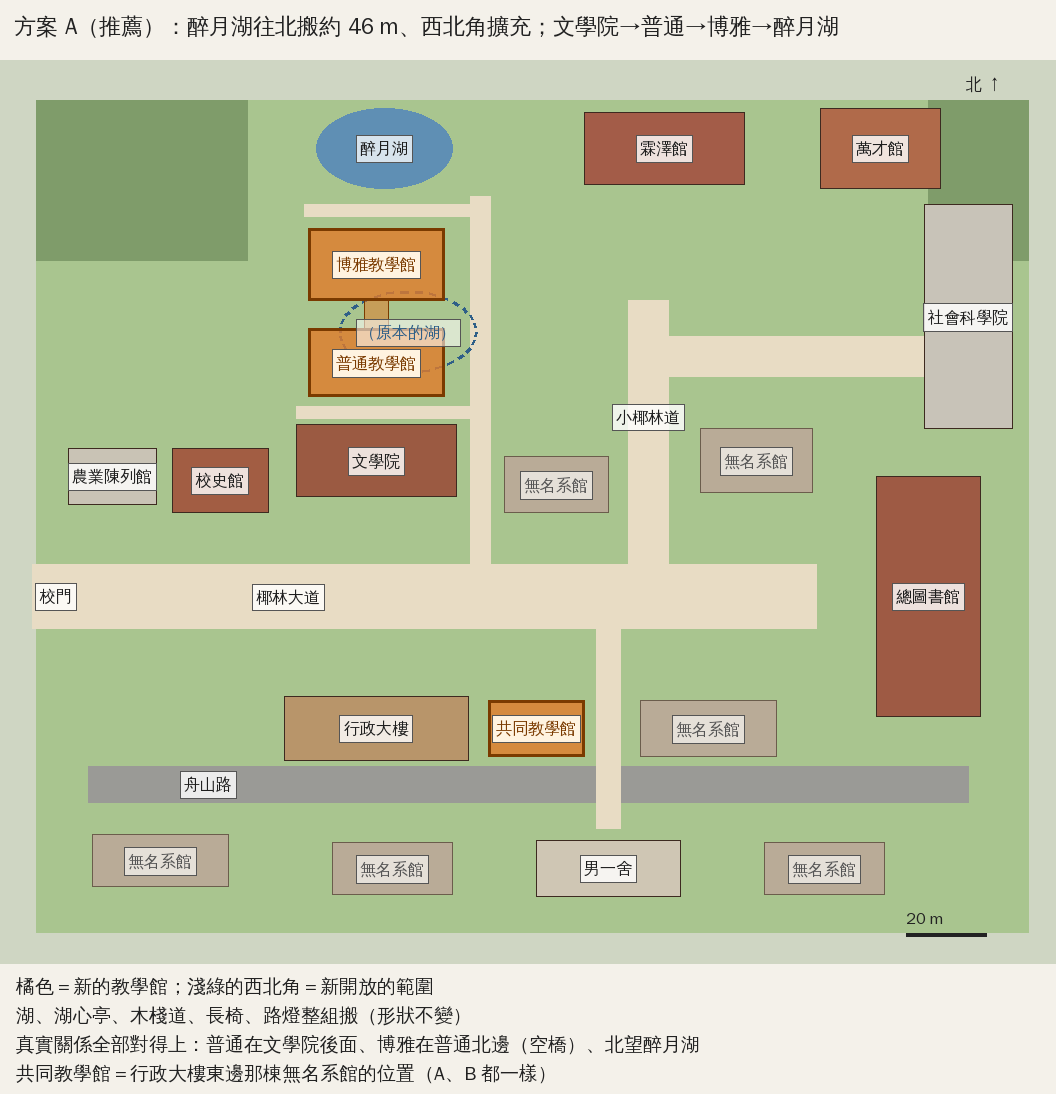
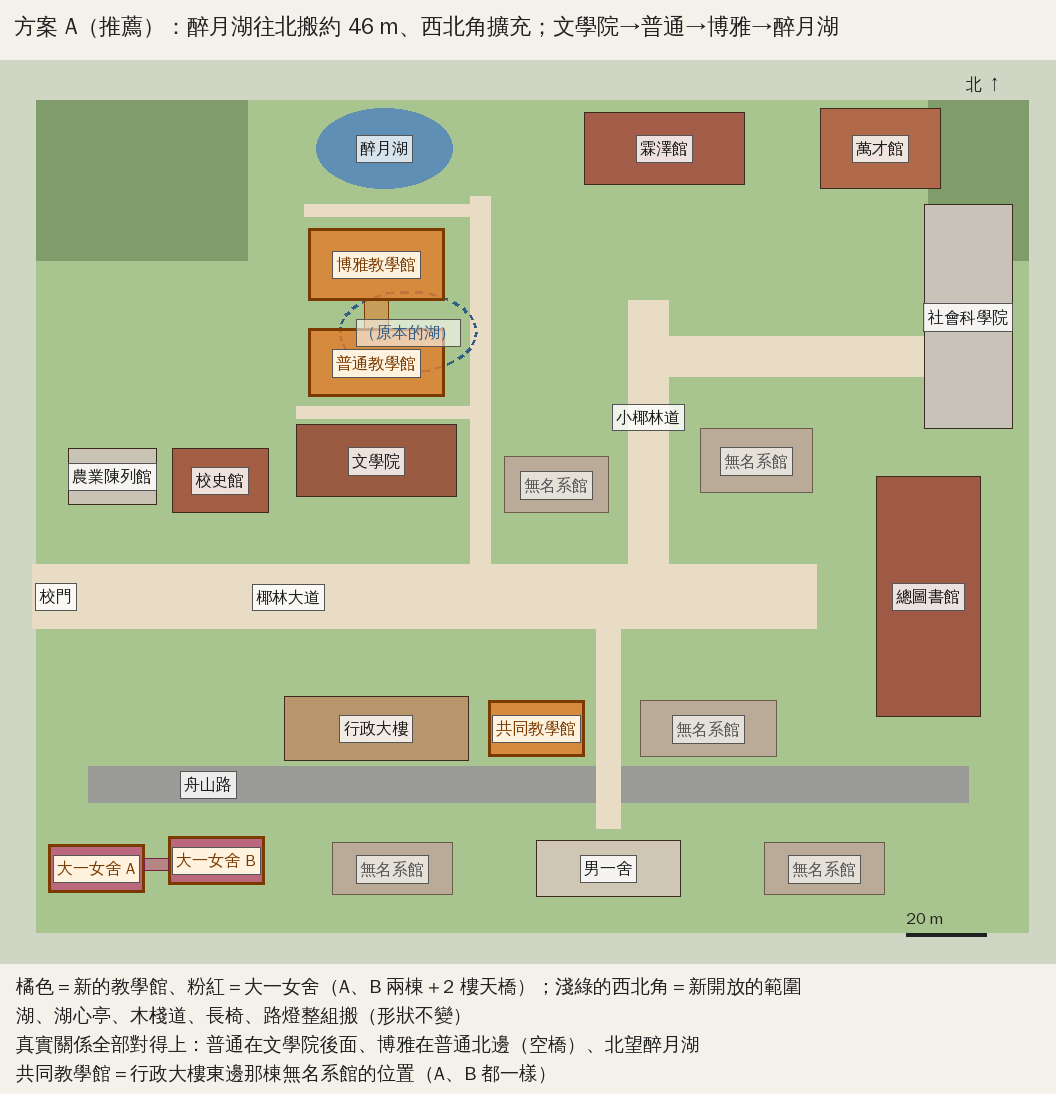
大一女舍第一階段（BLOCKOUT）＋公共建築通用系統設計（使用者 2026-10-13 第二則）
- 大一女舍：學務處官方簡介查證（校園內、鄰近公館捷運站 2、3 號出口，A、B 兩棟各 5 層；2 樓天橋）；
  校園西南角、舟山路西段南側，取代第二十批的無名系館 (-92,66)：A 棟 (-108,68)、B 棟 (-78,66)、2 樓天橋（下面可以走）；
  A 棟傳達室、B 棟刷卡門，「男賓止步」；門口等人用的長椅、腳踏車架；大地圖地名、快速前往（門口）、導航規則
- tests/campus_public_unit.js（新）：共同教學館、大一女舍 A／B 的入口站得住、從校門與霖澤館前走得到（走路與跑步＋低幀率）、
  建築走不進去、天橋下走得過、長椅坐得到、快速前往落點——ALL PASS；quick_travel_unit、classes_unit、nav_buildings_unit、guide_unit、kit_nav_check 都 ALL PASS
- tests/flow_teaching_buildings.py 加 F 段（大一女舍的真實玩家流程），還沒跑（等 v9.5 回歸跑完）
- docs/campus/PUBLIC_BUILDINGS_DESIGN.md：盤點既有系統＋教學館模板、人流（隨時間、同一時段進出看到同一批人、有名字的人不重複）、
  通用互動 10 項、事件介面（只加 room／activity／npcHere 條件）、存檔相容、效能、分階段
- TEACHING_BUILDINGS_PLAN.md 3b 節＋示意圖加大一女舍

Claude-Session: https://claude.ai/code/session_01Eds6msqpsuzNEw98sdw8JX

diff --git a/tests/campus_public_unit.js b/tests/campus_public_unit.js
@@ -1,0 +1,38 @@
+// 台大總校區的公共場景（使用者 2026-10-13：普通、共同、博雅教學館、大一女舍；docs/campus/TEACHING_BUILDINGS_PLAN.md）——不需要瀏覽器。
+// 在 Node 裡建出遊戲真正的校園，檢查：
+//   每棟的入口互動點站得住、從校門與霖澤館前都走得到（引擎真正的找路＋移動碰撞，走路與跑步＋低幀率）；
+//   建築本體走不進去（不會穿牆）；大一女舍 A、B 兩棟之間（2 樓天橋下）走得過去；門口長椅坐得到；
+//   入口有名牌（mark）、大地圖有地名、快速前往的落點在門口前。
+// 這是模擬，不是真實玩家流程；真實流程在 tests/flow_teaching_buildings.py。
+// 用法：node tests/campus_public_unit.js
+const fs=require('fs'), vm=require('vm'), path=require('path');
+const ROOT=path.resolve(__dirname,'..');
+global.window=global; global.self=global;
+const ctx2d=new Proxy({}, {get:(o,k)=>k==='createRadialGradient'||k==='createLinearGradient'||k==='createPattern'?()=>({addColorStop(){}}):(k==='getImageData'?()=>({data:new Uint8ClampedArray(16)}):(k==='measureText'?()=>({width:10}):(()=>{})))});
+global.document={ createElementNS:()=>({getContext:()=>ctx2d,style:{}}), createElement:()=>({width:1,height:1,getContext:()=>ctx2d,style:{}}), getElementById:()=>null, addEventListener(){} };
+global.navigator={userAgent:'node'}; global.addEventListener=()=>{}; global.innerWidth=844; global.innerHeight=390; global.location={search:''};
+const files=['lib/three.bundle.js','lib/three.jsm.bundle.js','src/people3d.js','src/assets3d.js','src/world3d.js','src/engine3d.js','src/townkit3d.js','src/campuskit3d.js','src/zones3d.js',
+  'src/data/linze_layout.js','src/data/classroom_layout.js','src/building3d.js','src/data/wancai_layout.js','src/wancai3d.js','src/data/library_layout.js','src/library3d.js','src/data/lawlib_layout.js','src/lawlib3d.js',
+  'src/data/calendar.js','src/data/places.js','src/data/characters.js','src/data/courses.js','src/classes3d.js'];
+for(const f of files){ let src=fs.readFileSync(path.join(ROOT,f),'utf8'); src=src.replace(/^const (\w+)\s*=/mg,(m,n)=>/^(THREE|THREE_JSM|P3|ASSETS|W3|E3|TK|CK|Z3|B3|WC3|LB3|LL3|LINZE_LAYOUT|CLASSROOM_LAYOUT|WANCAI_LAYOUT|LIBRARY_LAYOUT|LAWLIB_LAYOUT|CALENDAR|PLACES|CHARACTERS|UNFAMILIAR_POOL|SOCIAL_GRAPH|PORTRAITS|COURSES|CLS|PROPS|CHAR)$/.test(n)?'globalThis.'+n+'=':m); vm.runInThisContext(src,{filename:f}); }
+let fails=0; const check=(name,ok,info)=>{ console.log((ok?'PASS ':'FAIL ')+name+(info?'　'+info:'')); if(!ok) fails++; };
+const E=E3; E.scene=new THREE.Scene(); E.q={level:'medium'}; E.interactables=[]; E.colliders=[]; E.lampGlows=[]; E.seats=[]; E.npcs=[]; E.spawnHint=null;
+const z=Z3.ZONES.campus.build(E); E.zone=z; E.levels=z.levels||null; E.nav=z.nav; if(E.levels) for(const n of E.levels) n._cm=null; E.player={obj:{position:new THREE.Vector3(),rotation:{y:0}},radius:0.32,lv:0};
+CLS.addDoors({E},'campus');
+const stand=(x,zz)=>E.canStand(x,zz,0.32,0);
+const walk=(a,b)=>{ for(const [dt,sp] of [[1/30,1.6],[0.1,4.1]]){ const r=E.simWalk(a[0],a[1],b[0],b[1],{lv0:0,lv1:0,dt,speed:sp}); if(!r.ok) return Object.assign({dt:+dt.toFixed(3),speed:sp},r); } return {ok:true}; };
+const GATE=[-112,0], LINZE=[34,-98];
+const near=(it)=>{ for(let rr=0;rr<=(it.radius||1.5)-0.05;rr+=0.1) for(let a=0;a<24;a++){ const x=it.x+Math.cos(a/24*Math.PI*2)*rr, zz=it.z+Math.sin(a/24*Math.PI*2)*rr; if(stand(x,zz)) return [x,zz]; } return null; };
+const LM=PLACES.landmarks.campus, QL=PLACES.quickList();
+for(const [label,lm,foots] of [['共同教學館','共同教學館',[[2,33,24,14]]],['大一女舍 A 棟（傳達室）','大一女舍',[[-108,68,24,12]]],['大一女舍 B 棟','大一女舍',[[-78,66,24,12]]]]){
+  const it=E.interactables.find(i=>i.label===label); check(label+'：有入口互動點、有名牌（mark）',!!it&&!!it.mark,it?`(${it.x},${it.z})`:'');
+  if(!it) continue; const p=near(it); check(label+'：入口旁邊站得住',!!p,JSON.stringify(p)); if(!p) continue;
+  let r=walk(GATE,p); check(label+'：從校門走得到（走路 30 fps、跑步＋低幀率）',r.ok,JSON.stringify(r).slice(0,180));
+  r=walk(LINZE,p); check(label+'：從霖澤館前走得到',r.ok,JSON.stringify(r).slice(0,180));
+  for(const [cx,cz,w,d] of foots){ const inside=[[cx,cz],[cx-w/2+1.5,cz],[cx+w/2-1.5,cz],[cx,cz-d/2+3.6],[cx,cz+d/2-1.2]].filter(q=>stand(q[0],q[1]));   /* 正面一樓的拱廊（套件 arcade，約 2.4–3 m 深）走得進去，是設計；量拱廊後面 */ check(label+'：建築本體走不進去（不會穿牆）',!inside.length,JSON.stringify(inside)); }
+  check(label+'：大地圖有地名「'+lm+'」',LM.some(q=>q[0]===lm)); }
+check('大一女舍：A、B 兩棟之間（2 樓天橋下）走得過去',stand(-93,67)&&walk([-93,57],[-93,78]).ok,JSON.stringify(walk([-93,57],[-93,78])).slice(0,160));
+{ const s=(z.seats||E.seats||[]).find(q=>/大一女舍門口的長椅/.test(q.label||'')); check('大一女舍門口有等人用的長椅（坐得到：長椅前站得住、從校門走得到）',!!s&&stand(s.x,s.z+0.75)&&walk(GATE,[s.x,s.z+0.75]).ok,JSON.stringify(s)); }
+{ const bad=QL.filter(q=>q[0]==='campus'&&/共同教學館|大一女舍/.test(q[1])).filter(q=>!stand(q[2].x,q[2].z)); check('快速前往的落點（共同教學館、大一女舍）在門口前、站得住',QL.some(q=>/大一女舍/.test(q[1]))&&!bad.length,JSON.stringify(bad)); }
+{ const it=E.interactables.find(i=>i.door==='common'); check('課表的共同教學館上課點＝共同教學館的正門（不是另一棟無名系館）',!!it&&Math.abs(it.x-2)<1&&Math.abs(it.z-22.8)<1,it?`(${it.x},${it.z})`:''); }
+console.log(fails?('FAILED '+fails):'ALL PASS'); process.exit(fails?1:0);

diff --git a/src/zones3d.js b/src/zones3d.js
@@ -143,6 +143,26 @@ const Z3 = (function(){
        正好是第十八批補的「大道南側、行政大樓東邊」那棟無名系館的位置，換成有名字的建築，位置與大小不變（舊存檔、導航不受影響）。
        外觀是校園套件的方盒（BLOCKOUT），等 LAWWW2 的 Blender 正式模型；正門在北面中間，門口的互動點在 classes3d.js 的 DOORS.common */
     const gongtong=CK.hall({w:24,d:14,floors:3,gfh:4.2,fh:3.6,wall:'#9b5a42',trim:'#d8cfbd',roof:'#43342e',roofH:3.6,arcade:true,porch:{bays:1,depth:2.4,pediment:true,pedH:1.4},sign:'共同教學館'}); ckPlace(gongtong,2,33,Math.PI); buildings.push(gongtong);
+    /* 大一女舍（使用者 2026-10-13：四棟跨學年公共場景之一；查證見 docs/campus/TEACHING_BUILDINGS_PLAN.md 3b）：學務處官方簡介——在校園內、鄰近公館捷運站 2、3 號出口，
+       A、B 兩棟、各 5 層；學生整理的住宿資料：兩棟 2 樓有天橋、傳達室在 A 棟、B 棟靠舟山路、B 棟大門刷學生證。不是女一舍、不是水源 BOT。
+       校園西南角、舟山路西段南側（靠校門與公館那一側），取代第二十批的無名系館 (-92,66)。外觀是校園套件（BLOCKOUT），等 LAWWW2 的模型；
+       主角是男生：大門「男賓止步」，可以在門口的長椅等人，不能進去（第一階段沒有室內）*/
+    { const FD={w:24,d:12,floors:5,gfh:3.6,fh:3.1,wall:'#d9cfc2',trim:'#efe9dd',roofType:'flat',win:'rect',arcade:false,porch:{bays:1,depth:2.0,style:'flat',h:3.4}};
+      const fdA=CK.hall(Object.assign({},FD,{sign:'大一女舍 A'})); ckPlace(fdA,-108,68,Math.PI); buildings.push(fdA);
+      const fdB=CK.hall(Object.assign({},FD,{sign:'大一女舍 B'})); ckPlace(fdB,-78,66,Math.PI); buildings.push(fdB);
+      // 2 樓天橋：A 棟東牆 (x=-96) 到 B 棟西牆 (x=-90)；下面可以走（不擋導航），鏡頭碰撞照建築
+      const br=new THREE.Group(); const bw=6.2, by0=3.7, bh=2.7;
+      const deck=new THREE.Mesh(new THREE.BoxGeometry(bw,0.3,3.2),M('#cfc6b8')); deck.position.set(0,by0,0); br.add(deck);
+      const roofB=new THREE.Mesh(new THREE.BoxGeometry(bw,0.25,3.4),M('#bdb3a4')); roofB.position.set(0,by0+bh,0); br.add(roofB);
+      for(const sz of [-1.5,1.5]){ const wall=new THREE.Mesh(new THREE.BoxGeometry(bw,0.9,0.12),M('#d9cfc2')); wall.position.set(0,by0+0.6,sz); br.add(wall);
+        const gl=new THREE.Mesh(new THREE.BoxGeometry(bw,bh-1.2,0.05),new THREE.MeshStandardMaterial({color:'#9fb4c2',roughness:0.15,metalness:0.2,transparent:true,opacity:0.55})); gl.position.set(0,by0+0.95+(bh-1.2)/2,sz); br.add(gl); }
+      br.position.set(-93,0,67); g.add(br);
+      const bc=new THREE.Mesh(new THREE.BoxGeometry(bw,bh+0.3,3.4),new THREE.MeshBasicMaterial({visible:false,side:THREE.DoubleSide})); bc.position.set(-93,by0+bh/2,67); g.add(bc); E.colliders.push(bc);
+      // 門口：等人用的長椅（面向兩棟的大門）、B 棟門口的腳踏車架
+      { const b=BENCH(); place(g,b,-93,54.2,0); nav.blockRect(-93,54.2,1.4,0.7,0); seats.push({x:-93,z:54.26,yaw:0,label:'坐在大一女舍門口的長椅（等人）'}); }
+      { const r=W3.bikeRack(7); place(g,r,-66,55.4,0); nav.blockRect(-66,55.4,5,1.4,0); }
+      E.interactables.push({x:-108,z:59.2,radius:1.6,lv:0,label:'大一女舍 A 棟（傳達室）',mark:true,look:'大一女舍 A 棟。傳達室在這一棟。女生宿舍，男賓止步——要找人，可以在門口的長椅等。'});
+      E.interactables.push({x:-78,z:57.2,radius:1.6,lv:0,label:'大一女舍 B 棟',mark:true,look:'大一女舍 B 棟。大門要刷住宿生的學生證。女生宿舍，男賓止步。'}); }
     const admGLB=typeof ASSETS!=='undefined'&&!!ASSETS.manifest['bldg.campus_admin']; admin.userData.ckTag='admin'; if(admGLB) admin.userData.dyn=true;   /* 行政大樓的 Blender 正式模型（第二個 AI：campus_hall.py --set admin → bldg.campus_admin）：和總圖同一套接法；導航、鏡頭碰撞、門口照舊是套件的（ckPlace） */
     // ---- 文學院（大道北側，正對行政大樓）：仿羅馬式拱窗 ----
     const arts=CK.hall({w:40,d:18,floors:2,gfh:4.8,fh:4.4,wall:'#9b5a42',trim:'#d8cfbd',roof:'#43342e',roofH:4.8,arcade:true,porch:{bays:3,depth:3.0,pediment:true,pedH:1.8},sign:'文學院'}); ckPlace(arts,-38,-34,0); buildings.push(arts); strip(g,-38,-8,-38,-24,4,W3.pathTex(),4);
@@ -203,7 +223,7 @@ const Z3 = (function(){
         [CK.hall({w:34,d:14,floors:4,gfh:4.2,fh:3.5,wall:'#d2c3a5',trim:'#ebe4d6',roofType:'flat',win:'rect',arcade:true,porch:{bays:3,depth:2.6,style:'flat'}}),45,33,Math.PI],   // 大道南側、往宿舍的路東邊
         [CK.hall({w:30,d:13,floors:5,gfh:3.6,fh:3.1,wall:'#bfb5a3',trim:'#e4ddd0',roofType:'flat',win:'rect',arcade:false,porch:{bays:1,depth:2.0,style:'flat',h:3.4}}),-34,68,Math.PI],   // 舟山路南側、宿舍區
         [CK.hall({w:30,d:13,floors:5,gfh:3.6,fh:3.1,wall:'#c9b49a',trim:'#e8e2d6',roofType:'flat',win:'rect',arcade:false,porch:{bays:1,depth:2.0,style:'flat',h:3.4}}),74,68,Math.PI],
-        [CK.hall({w:34,d:13,floors:4,gfh:3.8,fh:3.3,wall:'#c4b29a',trim:'#e6dfd0',roofType:'flat',win:'rect',arcade:false,porch:{bays:1,depth:2.0,style:'flat',h:3.4}}),-92,66,Math.PI]];   // 第二十批：舟山路西段南側（360° 盤點：這裡往南看是一整片空草地）
+];   // 第二十批的「舟山路西段南側」(-92,66) 2026-10-13 換成大一女舍（見行政大樓後面的大一女舍那一段）
       for(const [b,x,z,ry] of fill){ ckPlace(b,x,z,ry); buildings.push(b); }
       // 系館前的樹列、大道外側的樹、宿舍區與校園邊緣的樹帶（擋住草地直接接到遠景的盡頭）
       const rows=[

diff --git a/src/data/places.js b/src/data/places.js
@@ -31,7 +31,7 @@ const PLACES={
   /* 快速前往的地點（D54 ①；手機「地點」與大地圖用同一份）：[區域, 名稱, 落點 {x,z,yaw}（null＝區域預設的出生點）]。
      落點都要站得住、走得出去（tests/quick_travel_unit.js）。建築的落點照 layout 的入口（layout 檔在 places.js 之前載入）*/
   quickList(){ const sp=(L)=>typeof L!=='undefined'?Object.assign({},L.entrance.spawn):null; const L1=typeof LINZE_LAYOUT!=='undefined'?sp(LINZE_LAYOUT):null, LB=typeof LIBRARY_LAYOUT!=='undefined'?sp(LIBRARY_LAYOUT):null, LL=typeof LAWLIB_LAYOUT!=='undefined'?sp(LAWLIB_LAYOUT):null;
-    return [['campus','台大校園（霖澤館前）',{x:34,z:-98,yaw:0}],['campus','椰林大道・傅鐘',{x:-38,z:6,yaw:0}],['campus','校門口',{x:-112,z:0,yaw:-Math.PI/2}],['campus','共同教學館',{x:2,z:21.4,yaw:0}],
+    return [['campus','台大校園（霖澤館前）',{x:34,z:-98,yaw:0}],['campus','椰林大道・傅鐘',{x:-38,z:6,yaw:0}],['campus','校門口',{x:-112,z:0,yaw:-Math.PI/2}],['campus','共同教學館',{x:2,z:21.4,yaw:0}],['campus','大一女舍（門口）',{x:-93,z:56,yaw:0}],
       L1&&['linze','霖澤館（大廳）',L1],['classroom','霖澤館 201 教室',null],['wancai','萬才館（大廳）',{x:0,z:5,yaw:Math.PI}],LL&&['lawlib','法律學院圖書館',LL],LB&&['library_hall','總圖書館（大廳）',LB],
       ['gongguan','公館商圈',{x:0,z:-30,yaw:Math.PI}],['noodle','阿鳳麵店',{x:0,z:3.4,yaw:Math.PI}],['cvs','全日便利商店',{x:0,z:3.4,yaw:Math.PI}],['bookstore','舊路書房',{x:0,z:4,yaw:Math.PI}],
       ['wenzhou','溫州街',{x:20,z:0,yaw:-Math.PI/2}],['cafe','兩點半 Café',{x:0,z:5,yaw:Math.PI}],['dorm','宿舍',{x:0,z:2.5,yaw:Math.PI}]].filter(Boolean); },
@@ -40,7 +40,7 @@ const PLACES={
   known0:{campus:1,linze:1,classroom:1,wancai:1,lawlib:1,library_hall:1,library:1,gongguan:1,cvs:1,wenzhou:1,dorm:1,dorm_hall:1},
   // 大地圖上的地名（沒有入口、或想讓玩家認得的地標）
   landmarks:{
-    campus:[ ['校門',-120,0], ['椰林大道',-60,0], ['傅鐘',-38,16.5], ['行政大樓',-38,33], ['共同教學館',2,33], ['文學院',-38,-34], ['農業陳列館',-104,-30], ['校史館',-77,-29],
+    campus:[ ['校門',-120,0], ['椰林大道',-60,0], ['傅鐘',-38,16.5], ['行政大樓',-38,33], ['共同教學館',2,33], ['大一女舍',-93,67], ['文學院',-38,-34], ['農業陳列館',-104,-30], ['校史館',-77,-29],
       ['醉月湖',-30,-66], ['總圖書館',100,0], ['霖澤館',34,-112], ['萬才館',88,-112], ['社會科學院',110,-70], ['小椰林道',30,-40], ['男生宿舍',20,68] ],
     gongguan:[ ['捷運公館站',-36.6,11], ['羅斯福路',20,-6], ['往溫州街',-71,20], ['台大校門',0,-46] ],
     wenzhou:[ ['兩點半 Café',54.2,0], ['小公園',26,6], ['往公館',51.3,-13.4] ]

diff --git a/src/guide3d.js b/src/guide3d.js
@@ -34,6 +34,7 @@ const GUIDE=(function(){
     [/法律學院圖書館|法圖/, {zone:'lawlib',name:'法律學院圖書館'}],
     [/萬才館/, {zone:'wancai',name:'萬才館'}],
     [/共同教學館/, {zone:'campus',label:'共同教學館',name:'共同教學館'}],
+    [/大一女舍|女舍/, {zone:'campus',label:'大一女舍 A 棟（傳達室）',name:'大一女舍'}],
     [/溫州街|兩點半|Café|咖啡廳/, {zone:'cafe',name:'兩點半 Café'}],
     [/自習區|總圖/, LIB2F],
     [/麵店/, {zone:'noodle',name:'阿鳳麵店'}],

diff --git a/tests/flow_teaching_buildings.py b/tests/flow_teaching_buildings.py
@@ -7,6 +7,7 @@ C. 手機「地點」快速前往：從宿舍 → 共同教學館：到校園、
    再自己走回椰林大道（不會卡在門口）。
 D. 手機「地點」→ 總圖書館：到總圖大廳、站得住。
 E. 舊存檔站在共同教學館的位置（建築裡）：讀檔後移到站得住的地方。
+F. 大一女舍：從校門點地面走到 A 棟門口（傳達室）→「男賓止步」；走過 A、B 之間的天橋下；坐門口的長椅「坐一下」（等人）；手機「地點」→ 大一女舍（門口）站得住。
 用法：python3 tests/flow_teaching_buildings.py URL [輸出資料夾]"""
 import asyncio, json, sys, math
 from playwright.async_api import async_playwright
@@ -92,6 +93,44 @@ async def main():
         await pg.wait_for_timeout(3500)
         s = await L.state(pg)
         run.check('讀檔後移到建築外面站得住的地方', s['zone'] == 'campus' and s['stand'] and not inside_foot(s['x'], s['z']), json.dumps(s, ensure_ascii=False))
+        # ---------- F：大一女舍 ----------
+        run.setup('讀檔：第 3 天 17:30，校門口 (-112,0)')
+        await L.load_state(pg, {'zone': 'campus', 'hour': 17.5, 'day': DAY_FRI, 'weekday': 5, 'weather': 'sunny', 'pos': {'x': -112, 'z': 0, 'yaw': 3.14}, 'flags': BASE_FLAGS})
+        await pg.wait_for_timeout(3500)
+        a = await L.find_it(pg, '大一女舍 A 棟')
+        run.check('校園有大一女舍 A 棟（傳達室）的門口', bool(a), json.dumps(a, ensure_ascii=False))
+        ok = await L.go_to(pg, cdp, run, a['x'], a['z'], 1.2, '大一女舍 A 棟門口')
+        s = await L.state(pg)
+        run.check('從校門自己走到大一女舍 A 棟門口、出現按鈕', ok and s['interact'].startswith('大一女舍 A 棟'), json.dumps(s, ensure_ascii=False))
+        await run.shot(pg, 'F_dorm_door')
+        await L.tap(pg, cdp, '#interact'); await pg.wait_for_timeout(1500)
+        cap = await pg.evaluate("(document.getElementById('caption')||{}).textContent||''")
+        run.check('按門口：寫「男賓止步」、傳達室在 A 棟、可以在門口的長椅等', '男賓止步' in cap and '傳達室' in cap, cap)
+        ok = await L.go_to(pg, cdp, run, -93, 74, 1.0, '天橋下（A、B 之間）')
+        s = await L.state(pg)
+        run.check('走過 A、B 兩棟之間（2 樓天橋下面）', ok and s['stand'] and -96 < s['x'] < -90, json.dumps(s, ensure_ascii=False))
+        await run.shot(pg, 'F_under_bridge')
+        ok = await L.go_to(pg, cdp, run, -93, 55.0, 0.6, '門口的長椅前')
+        s = await L.state(pg)
+        run.check('走到門口的長椅、出現「坐在大一女舍門口的長椅（等人）」', ok and '大一女舍門口的長椅' in s['interact'], s['interact'])
+        h0 = s['hour']
+        await L.tap(pg, cdp, '#interact'); await pg.wait_for_timeout(2500)
+        opts = await pg.evaluate("[...document.querySelectorAll('#choices button')].map(b=>b.textContent)")
+        run.check('坐下後有「坐一下」可以等', any('坐一下' in o for o in opts), json.dumps(opts, ensure_ascii=False))
+        idx = next((i for i, o in enumerate(opts) if '坐一下' in o), 0)
+        s = await L.advance_dialogs(pg, cdp, run, until=lambda q: not q['busy'] and not q['dlg'] and not q['choices'], pick=idx)
+        run.check('等了一段時間（時間有過）、起身後站得住', s['hour'] > h0 + 0.1 and s['stand'], f"{h0} → {s['hour']}")
+        await L.tap(pg, cdp, '#btnPhone'); await pg.wait_for_timeout(1000)
+        await L.tap(pg, cdp, '#phoneTabs button[data-ptab="places"]'); await pg.wait_for_timeout(800)
+        ok = await L.tap(pg, cdp, '#phoneBody [data-place="campus|共同教學館"]')
+        await pg.wait_for_timeout(6000)
+        await L.tap(pg, cdp, '#btnPhone'); await pg.wait_for_timeout(1000)
+        await L.tap(pg, cdp, '#phoneTabs button[data-ptab="places"]'); await pg.wait_for_timeout(800)
+        ok = await L.tap(pg, cdp, '#phoneBody [data-place="campus|大一女舍（門口）"]')
+        run.check('手機「地點」→ 大一女舍（門口）', ok)
+        await pg.wait_for_timeout(6000)
+        s = await L.state(pg)
+        run.check('到大一女舍門口前、站得住、不在建築裡', s['zone'] == 'campus' and s['stand'] and math.hypot(s['x'] + 93, s['z'] - 56) < 1.5, json.dumps(s, ensure_ascii=False))
         run.check('沒有 JS 例外', not errs, json.dumps(errs[:3], ensure_ascii=False))
         await b.close()
     return run.finish()

diff --git a/tools/dev_scratch/teaching_plan_diagram.py b/tools/dev_scratch/teaching_plan_diagram.py
@@ -48,6 +48,8 @@ BLD = [  # (名稱, cx, cz, w, d, rot90, 顏色)
     ('校史館', -77, -29, 24, 16, False, '#a25d43'), ('總圖書館', 100, 0, 60, 26, True, '#9e5a44'), ('霖澤館', 34, -112, 40, 18, False, '#a35c48'),
     ('萬才館', 88, -112, 30, 20, False, '#b06a4a'), ('社會科學院', 110, -70, 56, 22, True, '#c8c3b8'), ('男一舍', 20, 68, 36, 14, False, '#cfc6b4')]
 FILL = [(7, -28, 26, 14), (57, -34, 28, 16), (2, 33, 24, 14), (45, 33, 34, 14), (-34, 68, 30, 13), (74, 68, 30, 13), (-92, 66, 34, 13)]
+def dorm(d, fs):   # 大一女舍（A 棟靠西、B 棟靠舟山路、2 樓天橋）：取代 (-92,66) 的無名系館
+    newb(d, fs, -108, 68, 24, 12, '大一女舍 A', col='#c0507a'); newb(d, fs, -78, 66, 24, 12, '大一女舍 B', col='#c0507a'); rect(d, -96, 65.5, -90, 68.5, fill='#c0507a88', outline='#7a2040')
 def world(d, f, fs, skip_fill=(), lake_at=(-30, -66), lake_paths=True):
     paths(d)
     if lake_paths:
@@ -81,19 +83,19 @@ out(im, im2, 'teaching_plan_now.png')
 # 方案 A：醉月湖往北搬、西北角擴充
 im, d, im2, d2 = base('方案 A（推薦）：醉月湖往北搬約 46 m、西北角擴充；文學院→普通→博雅→醉月湖', f, fs)
 rect(d2, -70, -124, 5, -84, fill='#a9c58f')       # 擴充：原本走不到的樹林變成走得到
-world(d2, f, fs, skip_fill=(2,), lake_at=(-36, -112), lake_paths=False)
+world(d2, f, fs, skip_fill=(2, 6), lake_at=(-36, -112), lake_paths=False)
 rect(d2, -14.5, -100, -9.5, -8, fill='#e8dcc4'); rect(d2, -58, -47.5, -9.5, -44.5, fill='#e8dcc4'); rect(d2, -56, -98, -9.5, -95, fill='#e8dcc4')   # 延長的小路、文學院後面的路、湖南岸步道
 lake(d2, -30, -66, col='#2f5f88', dash=True)
 newb(d2, fs, 2, 33, 24, 14, '共同教學館'); newb(d2, fs, -38, -58.5, 34, 17, '普通教學館'); newb(d2, fs, -38, -83, 34, 18, '博雅教學館')
 rect(d2, -41, -74, -35, -67, fill='#e07b2a88', outline='#7a3a00')   # 空橋
-names(d2, fs, skip_fill=(2,), lake_at=(-36, -112)); label(d2, fs, -30, -66, '（原本的湖）', col='#2f5f88', bg='#ffffff90')
-legend(d2, fs, ['橘色＝新的教學館；淺綠的西北角＝新開放的範圍', '湖、湖心亭、木棧道、長椅、路燈整組搬（形狀不變）', '真實關係全部對得上：普通在文學院後面、博雅在普通北邊（空橋）、北望醉月湖', '共同教學館＝行政大樓東邊那棟無名系館的位置（A、B 都一樣）'])
+dorm(d2, fs); names(d2, fs, skip_fill=(2, 6), lake_at=(-36, -112)); label(d2, fs, -30, -66, '（原本的湖）', col='#2f5f88', bg='#ffffff90')
+legend(d2, fs, ['橘色＝新的教學館、粉紅＝大一女舍（A、B 兩棟＋2 樓天橋）；淺綠的西北角＝新開放的範圍', '湖、湖心亭、木棧道、長椅、路燈整組搬（形狀不變）', '真實關係全部對得上：普通在文學院後面、博雅在普通北邊（空橋）、北望醉月湖', '共同教學館＝行政大樓東邊那棟無名系館的位置（A、B 都一樣）'])
 out(im, im2, 'teaching_plan_A.png')
 # 方案 B：湖不動
 im, d, im2, d2 = base('方案 B：醉月湖不動；普通、博雅擺在湖東邊、小椰林道西邊', f, fs)
-world(d2, f, fs, skip_fill=(2,))
+world(d2, f, fs, skip_fill=(2, 6))
 newb(d2, fs, 2, 33, 24, 14, '共同教學館'); newb(d2, fs, 7, -52, 24, 16, '普通教學館'); newb(d2, fs, 7, -74.5, 24, 17, '博雅教學館')
 rect(d2, 4, -66, 10, -60, fill='#e07b2a88', outline='#7a3a00')
-names(d2, fs, skip_fill=(2,))
-legend(d2, fs, ['橘色＝新的教學館；既有場景都不動', '缺點：兩棟只能 24 m 寬、擠在湖和小椰林道之間', '和真實不同：普通在文學院東北（不是正後方）、醉月湖在博雅西邊（真實在北邊）', '共同教學館＝行政大樓東邊那棟無名系館的位置'])
+dorm(d2, fs); names(d2, fs, skip_fill=(2, 6))
+legend(d2, fs, ['橘色＝新的教學館、粉紅＝大一女舍（A、B 兩棟＋2 樓天橋）；既有場景都不動', '缺點：兩棟只能 24 m 寬、擠在湖和小椰林道之間', '和真實不同：普通在文學院東北（不是正後方）、醉月湖在博雅西邊（真實在北邊）', '共同教學館＝行政大樓東邊那棟無名系館的位置'])
 out(im, im2, 'teaching_plan_B.png')

diff --git a/tests/campus_layout_nav.py b/tests/campus_layout_nav.py
@@ -11,7 +11,7 @@ START = (34, -98)    # 霖澤館前（校園預設出生點）
 # 名稱, x, z：每一個都要站得住，而且從霖澤館前有路走得到
 PLACES = [('霖澤館穿堂（v9.4 D36 起可以走，高 0.9 m；舊版這三個在「不能走」清單）', 34, -110), ('霖澤館正面台階', 34, -101.6), ('霖澤館背面的後台階', 34, -122.5), ('校門內', -112, 0), ('校門口（走出校門的互動點）', -126, 0), ('校門開口正中間', -124, 0), ('椰林大道中段', -38, -4), ('傅鐘廣場', -44, 14), ('傅鐘旁長椅前', -30, 19.6), ('行政大樓前（柱廊外）', -38, 23.2),
           ('文學院門前', -38, -23.5), ('校史館門前', -77, -19), ('總圖門口', 80.5, 0), ('小椰林道', 30, -40), ('醉月湖南岸步道', -30, -51),
-          ('醉月湖木棧道（湖面上）', -33, -61), ('湖心亭', -33, -65.4), ('醉月湖畔長椅（步道這側）', -41, -52.8), ('宿舍門口', 20, 54), ('共同教學館正門（2026-10-13，行政大樓東邊）', 2, 22.8), ('萬才館舊門口（第十九～二十三批的台階下，現在在弧形量體前面）', 79.5, -94.3), ('萬才館一樓入口（陽台下，第二十四批）', 93.8, -100.6), ('萬才館大樓梯中段（萬才館第二階段起可以走、高度一階一階，平台與陽台在第 1 層；第二十四批～v9.4.2 在「不能走」清單）', 87, -94), ('萬才館西側（第二十三批以前的方形低樓位置）', 66, -108), ('兩棟系館之間（矮籬前）', 58, -117),
+          ('醉月湖木棧道（湖面上）', -33, -61), ('湖心亭', -33, -65.4), ('醉月湖畔長椅（步道這側）', -41, -52.8), ('宿舍門口', 20, 54), ('共同教學館正門（2026-10-13，行政大樓東邊）', 2, 22.8), ('大一女舍 A 棟門口（2026-10-13）', -108, 59.2), ('大一女舍 B 棟門口', -78, 57.2), ('大一女舍天橋下', -93, 67), ('大一女舍門口長椅前', -93, 55.6), ('萬才館舊門口（第十九～二十三批的台階下，現在在弧形量體前面）', 79.5, -94.3), ('萬才館一樓入口（陽台下，第二十四批）', 93.8, -100.6), ('萬才館大樓梯中段（萬才館第二階段起可以走、高度一階一階，平台與陽台在第 1 層；第二十四批～v9.4.2 在「不能走」清單）', 87, -94), ('萬才館西側（第二十三批以前的方形低樓位置）', 66, -108), ('兩棟系館之間（矮籬前）', 58, -117),
           ('社科院前', 90, -60), ('社團攤位前', -18, 13.3), ('傅鐘石碑前', -38, 12.6),
           ('大道北側新系館前（第十八批）', 6, -16.2), ('小椰林道東側系館前', 57, -21), ('南側系館前', 2, 22), ('南側東邊系館前', 45, 22), ('宿舍區西側大樓前', -34, 57), ('路人路線點（北側系館後面）', 8, -40), ('舟山路西段南側系館前（第二十批）', -92, 57.5)]
 BLOCKED = [('醉月湖水面（中央）', -24, -67), ('醉月湖水面（東側）', -18, -66), ('醉月湖水面（西側）', -42, -67), ('總圖建築內', 100, 0),

diff --git a/docs/campus/PUBLIC_BUILDINGS_DESIGN.md b/docs/campus/PUBLIC_BUILDINGS_DESIGN.md
@@ -1,0 +1,145 @@
+# 公共教學建築與日常生活：通用系統設計（盤點＋分階段做法）
+
+使用者 2026-10-13 決定：普通教學館、共同教學館、博雅教學館、大一女舍是跨經濟系大一與法律系四年反覆使用的生活場景。這份文件說明怎麼把它們做成「可以上課、讀書、碰面、參加活動與生活的地方」。
+
+範圍：
+- **只做通用系統與場景**，不寫任何人物劇情。杜可昕、沛珊、經濟系主線、演講故事、跨年級回憶都等 AA、BB 企劃與使用者確認。
+- 底層要改的地方，先在這裡盤點現況與存檔相容性，不大改。
+
+位置、外觀的查證與配置見 `TEACHING_BUILDINGS_PLAN.md`。
+
+## 1. 現在已經有、可以直接沿用的系統（盤點）
+
+| 系統 | 在哪裡 | 現在能做什麼 | 公共建築要補的 |
+|---|---|---|---|
+| 多樓層建築 | `src/building3d.js`（霖澤館）、`src/wancai3d.js`、`src/library3d.js`、`src/lawlib3d.js` | 配置寫在 layout JSON（`src/data/*_layout.js`）；每層一張導航格；樓梯、電梯；牆的透視；樓板不擋鏡頭；Blender 正式模型照同一份 layout 做，載入失敗有備用外觀 | 四個模組各寫一次。教學館要有**共用的教學館模板**：一份 layout 描述大廳、走廊、教室、階梯教室、自習區、休息區 |
+| 課表 | `src/data/courses.js`、`src/classes3d.js` | 每門課的學期、星期、時段、教室、教授；今天的課、上課（3D 教室坐下或門口畫面）、翹課、自學、成績單；手機「今天」「課表」 | 教室改成「建築裡的房間」；同一間教室照學期載入不同課程（資料上已經是：課程指定教室，不是教室綁課程）；別的系的課＝路人學生的上課時間 |
+| 教室裡的同學 | `CLS.syncRoom`（201）、`story3d.js` 的作息 | 上課時座位上坐著同學；教授照課表在講台或萬才館 | 上課前在門外等、開始前進教室、下課後陸續走出去（現在是直接出現在座位上） |
+| 人物作息 | `story3d.js` 的 `schedFor`／`populateSchedule`／`refreshSchedule`（每 3 秒） | 有名字的人照作息出現在某個區域；待在區域裡時，時段到了該出現的人出現、時段結束的人離開（`tests/schedule_refresh_unit.js`） | 作息加「哪一棟、哪一間」；跳過時間後照新的時間重排（現在已經會：`refreshSchedule` 用當下時間） |
+| 路人 | 各區域的 extras（法圖讀者、教室同學、街上行人） | 隨機位置 | **同一個時段重新進來要看到同一批人**（用「區域＋日期＋時段」當亂數種子）；路人沒有名字，不會是有名字的人 |
+| 座位與自習 | `E.seats`、`GM.seatMenu`、`studySession`、`CLS.studyPick` | 坐下、坐一下、讀書（準備課程、法律知識）、上課 | 自習桌（博雅的小桌子）用同一套座位；有人坐的位子不能坐（已經有） |
+| 條件事件 | `src/events3d.js`、`src/data/events.js` | 地點（區域）、時間、星期、學期（2026-10-13 新增）、天數、旗標、記憶、關係、靠近某人 | 加「房間」「活動」「某人在場」三種條件（第 5 節）；只加條件，不改觸發流程 |
+| 手機 | `game3d.js` 的手機面板 | 今天、課表、地點（快速前往）、跳過時間 | 之後：朋友（位置）、訊息（邀約）、活動（演講資訊） |
+| 時間跳轉 | `CLS.skipTo` | 遇到特殊課堂、約好的時間、劇情、閉館會停 | 加「已報名的演講」 |
+| 開放時間 | `src/data/places.js` | 法圖、總圖、Café 的開放規則與閉館說明 | 教學館的開放時間（未查證前不設限，晚上照常可以進公共空間）；女舍門禁 |
+
+## 2. 教學館模板（新模組，不改既有建築）
+
+- **一個新模組 `src/teach3d.js`**：讀教學館的 layout JSON，建出一個多樓層區域。做法照法圖：
+  - 牆、地板、樓梯、電梯、門、窗、透視、樓板；
+  - 每層的導航格；
+  - 備用外觀＋Blender 正式模型。
+  - 普通、共同、博雅各一份 layout（`src/data/putong_layout.js` 等），共用模組。既有的霖澤館、萬才館、總圖、法圖不動。
+- **房間是建築區域裡的一部分**（不是各自一個區域）。這樣才看得到學生從走廊走進教室、下課走出來，NPC 也能在房間之間走動。房間種類：
+  - `lobby` 大廳（入口、公告欄、休息椅）
+  - `corridor` 走廊（教室門口的等候位置）
+  - `classroom` 普通教室（平面、桌椅一格一格）
+  - `lecture` 大型階梯教室（照 201 的做法：一排一排的平台）
+  - `study` 自習區（小桌子、插座、靠窗）
+  - `lounge` 休息區
+- **教室依學期載入課程**：課程資料寫教室代號（例如 `BOYA_101`、`GONGTONG_201`），教室本身不綁課程。同一間共同教學館的教室，可以連續上日文上、日文下。
+- **門口上課的過渡**：室內還沒做好時，照現在的「門口上課」（2D 課堂畫面），layout 做好後換成走進教室坐下。課表資料不用改。
+- **玩家自由**：沒有課、沒有劇情時，公共空間照常可以進（大廳、走廊、自習區、空教室）。進去不會自動觸發故事。教學館的開放時間沒查證前不設限。
+
+## 3. 人流：場景隨時間改變
+
+每個房間在某一天某一刻「應該有誰」，由下面幾項算出來。進出區域、跳過時間、讀檔都用同一套算法，結果一致：
+
+1. **上課**：
+   - 課表上在這間教室的課，包括玩家的課，以及「別的系的課」——沒寫在課表上的時段，給每間教室一個固定的「其他班級」時間表，用同一份種子產生。
+   - 上課前 15 分鐘：學生陸續到走廊的等候位置、門口。
+   - 開始前 5 分鐘：走進教室、坐下。
+   - 上課中：坐著。
+   - 下課後 0～10 分鐘：陸續起身、走出去，往出口或下一個房間。
+2. **演講／活動**（博雅）：
+   - 活動資料寫明房間、時間、人數。
+   - 公告欄提前幾天貼出來。
+   - 開始前 20 分鐘：大廳、走廊有人等。
+   - 開始時：大教室坐到指定人數。
+   - 結束後：人潮往外走。
+   - 沒有活動時，大教室只有零星自習的人，不會一直滿場。
+3. **自習區**：人數照一天的時段曲線變化（早上少、下午多、考試週更多），座位照種子分配。
+4. **女舍門口**：傍晚回宿舍的人、晚上在門口等人或講電話的人、深夜很少人。
+
+**一致性規則**（使用者：「不要讓 NPC 隨玩家進出而任意生成和消失」「不要讓相同 NPC 同時出現在多個地方」）：
+- 路人用「區域＋日期＋時段」當亂數種子：同一個時段出去再進來，看到的是同一批人、坐在同一些位子。
+- 有名字的人只透過作息出現（`STORY.whereIs`），一個時間只會在一個地方。
+- 路人沒有名字、不能是有名字的角色。
+- 同一個路人模型在同一個畫面裡不重複太多：模型池輪流用，數量有上限，照畫質等級調。
+- 跳過時間或讀檔後，照新的時間重算。人物的位置是「那個時間應該在的地方」，不是從上一刻慢慢走過去。
+
+## 4. 通用互動（使用者列的 10 項）
+
+| 互動 | 做法 | 現況 |
+|---|---|---|
+| 1 進入建築 | 入口互動＋門口名牌（和其他建築同一套） | 共同教學館已有門口（室內還沒開放，寫清楚「館內之後開放」） |
+| 2 到指定教室上課 | 手機「今天」指路→走進教室→坐下選「上課」（同 201） | 霖澤館 201 已有；教學館室內做好後沿用 |
+| 3 上課前等待 | 走廊的等候位置：「等一下」，時間過 5–10 分鐘，旁邊的人在聊天 | 新增 |
+| 4 下課後離開 | 上完課自動起身，玩家自己走出去 | 201 已有 |
+| 5 找位置坐下 | 座位互動 | 已有 |
+| 6 自習 | 自習桌坐下選「讀書」（課程準備、法律知識） | 已有（換到新的自習區） |
+| 7 和附近的人交談 | 有名字的人照現有的對話；路人用通用的閒聊句子（依地點、時段） | 路人的句子要 AA、BB 提供或確認 |
+| 8 看演講、活動資訊 | 公告欄互動：列出今天與這幾天的活動（時間、地點、主題） | 新增；活動的內容資料要 AA、BB 提供 |
+| 9 等朋友赴約 | 邀約（`G.invites`）＋約定地點的等候 | 時間跳轉已經會在約好的時間前停；邀約本身是手機第 6 步 |
+| 10 用手機查朋友位置、課表、活動 | 手機「朋友」「活動」分頁 | 課表已有；朋友、活動在下一步 |
+
+## 5. 事件介面（給 AA、BB 之後放事件資料用）
+
+現在的條件事件已經能依學期、時間、星期、地點、旗標、記憶、關係觸發。要支援四棟建築，只**加三種條件**，觸發流程不改：
+- `room`：玩家在哪一間（例如 `boya_study`、`gongtong_jp`）。房間由 layout 的範圍判斷。
+- `activity`：某個活動進行中、剛結束（例如演講結束後的走廊）。
+- `npcHere`：某個角色現在照作息在同一棟、同一間。
+
+加一種觸發 `trigger:'room'`（進到某個房間時）。
+
+活動資料格式（`src/data/activities.js`，內容由 AA、BB 提供）：
+
+```
+{ id, title, kind:'lecture'|'club'|'exam'|…, zone, room, term:[…], weeks:[…] 或 dates:[…], weekday, t0, t1,
+  poster:{ daysBefore, text }, crowd:{ n }, story:false }
+```
+
+`story:true` 的活動等使用者批准才放。系統先用測試資料驗證，**遊戲裡先不放任何活動內容**。
+
+## 6. 存檔相容
+
+- 新欄位都是新增，舊存檔讀進來給預設值，不需要重新開始：
+  - `G.activities`（看過、參加過的活動），預設空；
+  - 房間是由位置算出來的，不存。
+- 路人用種子重算，不存在存檔裡，存檔不會變大。
+- 舊存檔的位置剛好在新建築裡（例如共同教學館那塊地本來就是一棟系館）：照現有規則，讀檔後移到最近站得住的地方（`tests/flow_teaching_buildings.py` E 段）。
+- 學期代號、課程代號都是新增；改既有課程的教室（例如經濟學原理改到普通教學館），只改資料，存檔裡的上課紀錄照課程代號記，不受影響。
+
+## 7. 效能
+
+- 每棟建築是自己的區域，進去才載入。校園上只有外觀；正式模型壓縮（Meshopt），貼圖共用。
+- 人流有上限：
+  - 同一個區域同時最多約 24–40 個人，照畫質等級調；
+  - 大教室滿場時，遠排的人用比較輕的模型或合併；
+  - 進到教室外面時，教室裡的人照距離降級。
+- 量測：校園 draw call、三角形數，放進前後比較。雲端沙盒的 SwiftShader 量不出手機實際效能，實機效能要使用者測。
+
+## 8. 分階段
+
+| 階段 | 內容 | 前提 |
+|---|---|---|
+| 1 | 四棟外觀＋入口＋地圖＋快速前往＋導航（共同：已整合；大一女舍：位置已查證；普通、博雅：等使用者選 A／B） | — |
+| 2 | 教學館模板（`teach3d.js`）＋共同教學館室內：大廳、走廊、兩間可重用教室、等候位置；上課前後的人流；「門口上課」換成走進教室 | AA 給日文上、下的學期與時段 |
+| 3 | 博雅室內：大型階梯教室、通識教室、自習小桌、公告欄、演講狀態；活動系統（先用測試資料） | LAWWW2 的博雅模型（可先用備用外觀） |
+| 4 | 普通教學館室內（沿用模板）；大一女舍外部細節、門禁、門口傍晚與晚上的人 | — |
+| 5 | 手機：朋友、訊息、邀約、活動 | 朋友的作息（AA、BB） |
+
+每一階段都會：
+- 跑真實玩家流程，包括走路進建築、上下樓、教室裡坐下起身、上完課離開、快速前往到門口；不能只用瞬移；
+- 跑完整回歸、做舊存檔測試；
+- 比較放進前後的效能。
+
+## 9. 需要別人提供的
+
+- **AA**：
+  - 課程地點的統一（法律系的經濟學原理改到普通教學館、日文上下的學期與時段；已在 2026-10-13 通知）；
+  - 經濟系課表（時間線定案後）；
+  - 活動資料（演講主題、時間）。
+- **BB**：路人的閒聊句子、演講的內容（使用者確認後）。
+- **LAWWW2**：四棟的外觀與室內模型（已分派，優先順序照使用者）。
+- **使用者**：普通、博雅的位置（方案 A／B）。

diff --git a/docs/campus/TEACHING_BUILDINGS_PLAN.md b/docs/campus/TEACHING_BUILDINGS_PLAN.md
@@ -103,6 +103,31 @@
 - 共同教學館照常做（兩個方案相同）；
 - 普通、博雅只做外觀研究，還不放進遊戲。
 
+## 3b. 大一女舍（使用者 2026-10-13 第二則：列為優先場景）
+
+**查證**：
+- 官方：[臺大學務處住宿服務組〈大一女舍簡介〉](https://osa_dorm.ntu.edu.tw/Freshman_House)：在校園內，鄰近公館捷運站 2、3 號出口、近公館商圈；**A、B 兩棟、各 5 層樓**。
+- 官方：[〈學生宿舍地址〉](https://osa_dorm.ntu.edu.tw/CID-2)：地址是羅斯福路四段 1 號（校本部）。
+- 學生整理的[〈女宿住宿懶人包〉](https://icheft.github.io/docs/NTU/girls-dorm.html)（非官方，可能較舊，請 LAWWW2 用照片再確認）：
+  - 傳達室在 A 棟；A 棟出入口離捷運 3 號出口較近；B 棟靠近舟山路；
+  - **兩棟 2 樓有天橋相連**；
+  - 還沒拿到學生證前要從 A 棟進出，B 棟大門要刷學生證。
+- 學生社群的整理：靠近公館的是大一女、女一、女二、女三、女五；女八、女九靠近新生教學館。
+- **不是女一舍、不是水源 BOT**：名字、兩棟加天橋、位置都照上面的資料。
+
+**遊戲位置**：
+- 校園西南角、舟山路西段南側：靠校門與公館那一側，對應真實「近公館捷運站、B 棟靠舟山路」。
+- 這裡目前是第二十批補的無名系館 (-92,66)，換掉，不動其他東西：
+  - A 棟中心 (-108,68)、24×12、5 層，靠西；正門朝北，傳達室在正門旁。
+  - B 棟中心 (-78,66)、24×12、5 層，靠東、離舟山路近一點；正門朝北對著舟山路，刷卡門。
+  - 兩棟之間 6 m，2 樓有天橋；天橋下面可以走。
+- 第一階段：
+  - 外觀用校園套件，標 `BLOCKOUT`，等 LAWWW2 的模型；
+  - 門口的等候位置（長椅、腳踏車架）；
+  - 門禁：主角是男生，大門寫「男賓止步」，可以在門口等人，不能進去；
+  - 地圖地名、快速前往、導航。
+- 之後：門口傍晚與晚上的人（第 3 節的人流系統）。杜可昕、沛珊的事件等 AA、BB。
+
 ## 4. 第一階段的驗收（使用者列的 8 項）與測試
 
 | 項目 | 做法 | 測試 |
@@ -133,6 +158,7 @@
 | 三棟真實位置查證 | 完成（公開資料交叉確認；官方地圖沙盒連不到，請使用者再對一次） |
 | 共同教學館位置 | 確定：(2,33) |
 | 普通、博雅位置 | **等使用者在方案 A／B 之間決定**（推薦 A） |
+| 大一女舍 | 位置查證完成（學務處官方簡介）；規劃：校園西南角、舟山路西段南側（取代無名系館 (-92,66)） |
 | LAWWW2 分派 | 2026-10-13 已送達（DELIVERED），等 ACK；法圖照原安排繼續 |
 | 模型 | 還沒有（LAWWW2 先做參考研究，再做共同） |
 | 整合進可玩的 3D 地圖 | 還沒有 |
